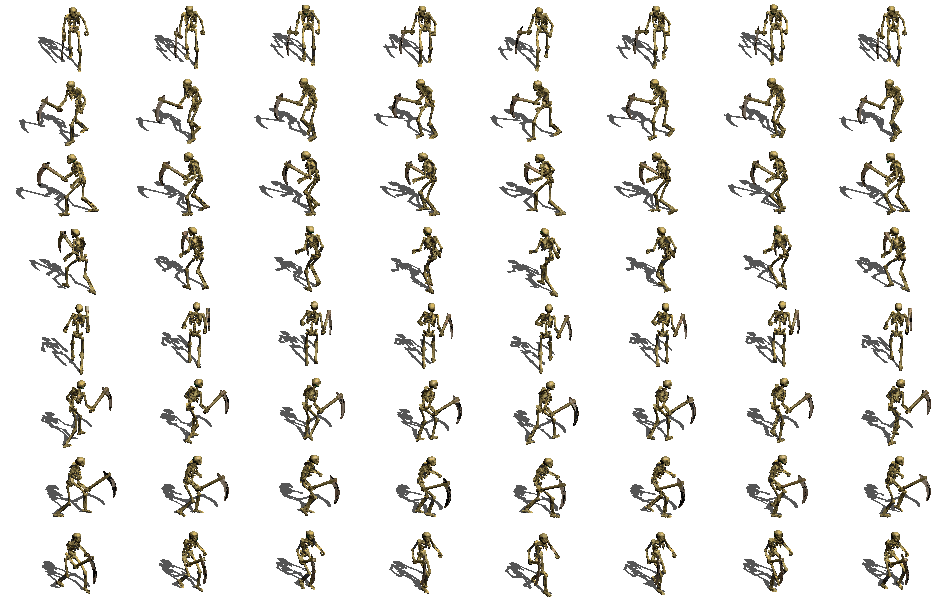
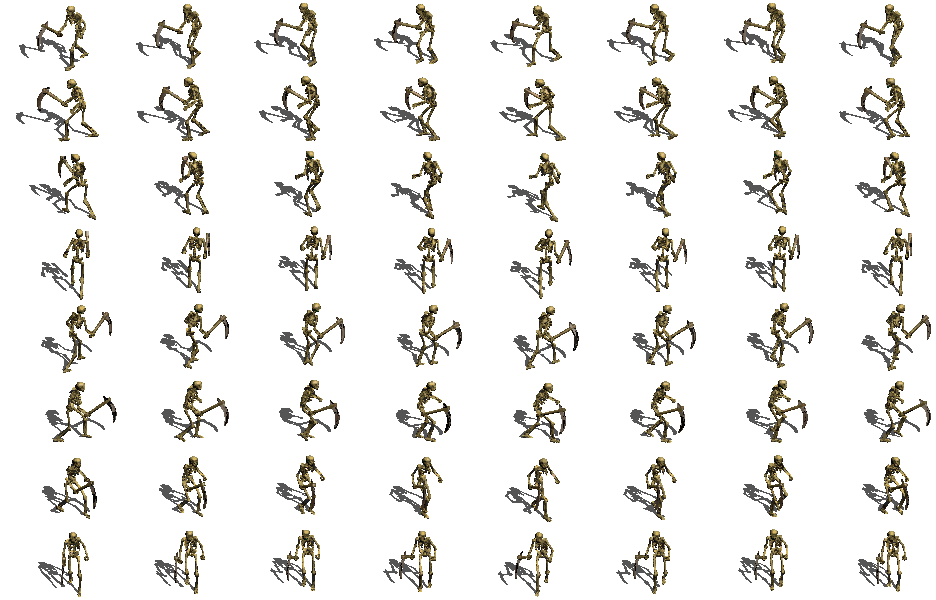
fix skeleton sprite

diff --git a/piru.c b/piru.c
@@ -328,7 +328,7 @@ void draw_monsters()
         monsters[i].world_y - offset_y};
     Point isometric_point = cartesian_to_isometric(monster_point);
 
-    Animation currentMonsterAnimation = animations[ANIM_SKELETON_IDLE][monsters[i].direction];
+    Animation currentMonsterAnimation = animations[ANIM_SKELETON_WALK][monsters[i].direction];
     int width = currentMonsterAnimation.frames[currentMonsterAnimation.currentFrame].w;
     int height = currentMonsterAnimation.frames[currentMonsterAnimation.currentFrame].h;
     SDL_Rect monster_quad = {
@@ -336,7 +336,7 @@ void draw_monsters()
         isometric_point.y + (SCREEN_HEIGHT / 2) + currentMonsterAnimation.offset_y,
         width,
         height};
-    SDL_RenderCopy(gRenderer, gImageAssets[SPRITE_SKELETON_IDLE].texture,
+    SDL_RenderCopy(gRenderer, currentMonsterAnimation.image.texture,
                    &currentMonsterAnimation.frames[currentMonsterAnimation.currentFrame],
                    &monster_quad);
   }
@@ -361,7 +361,7 @@ void draw_and_blit()
                                width,
                                height};
 
-  SDL_RenderCopy(gRenderer, gImageAssets[SPRITE_WARRIOR_WALK].texture,
+  SDL_RenderCopy(gRenderer, currentPlayerAnimation.image.texture,
                  &currentPlayerAnimation.frames[currentPlayerAnimation.currentFrame],
                  &playerRenderQuad);
 
@@ -460,11 +460,11 @@ void update_monster_animations()
   enum MONSTER_DIRECTION dir;
   for (dir = MONSTER_SOUTH_WEST; dir < MONSTER_DIRECTION_COUNT; dir++)
   {
-    int animFrames = animations[ANIM_SKELETON_IDLE][dir].columns;
-    animations[ANIM_SKELETON_IDLE][dir].currentFrame += 1;
-    if (animations[ANIM_SKELETON_IDLE][dir].currentFrame >= animFrames)
+    int animFrames = animations[ANIM_SKELETON_WALK][dir].columns;
+    animations[ANIM_SKELETON_WALK][dir].currentFrame += 1;
+    if (animations[ANIM_SKELETON_WALK][dir].currentFrame >= animFrames)
     {
-      animations[ANIM_SKELETON_IDLE][dir].currentFrame = 0;
+      animations[ANIM_SKELETON_WALK][dir].currentFrame = 0;
     }
   }
 }
